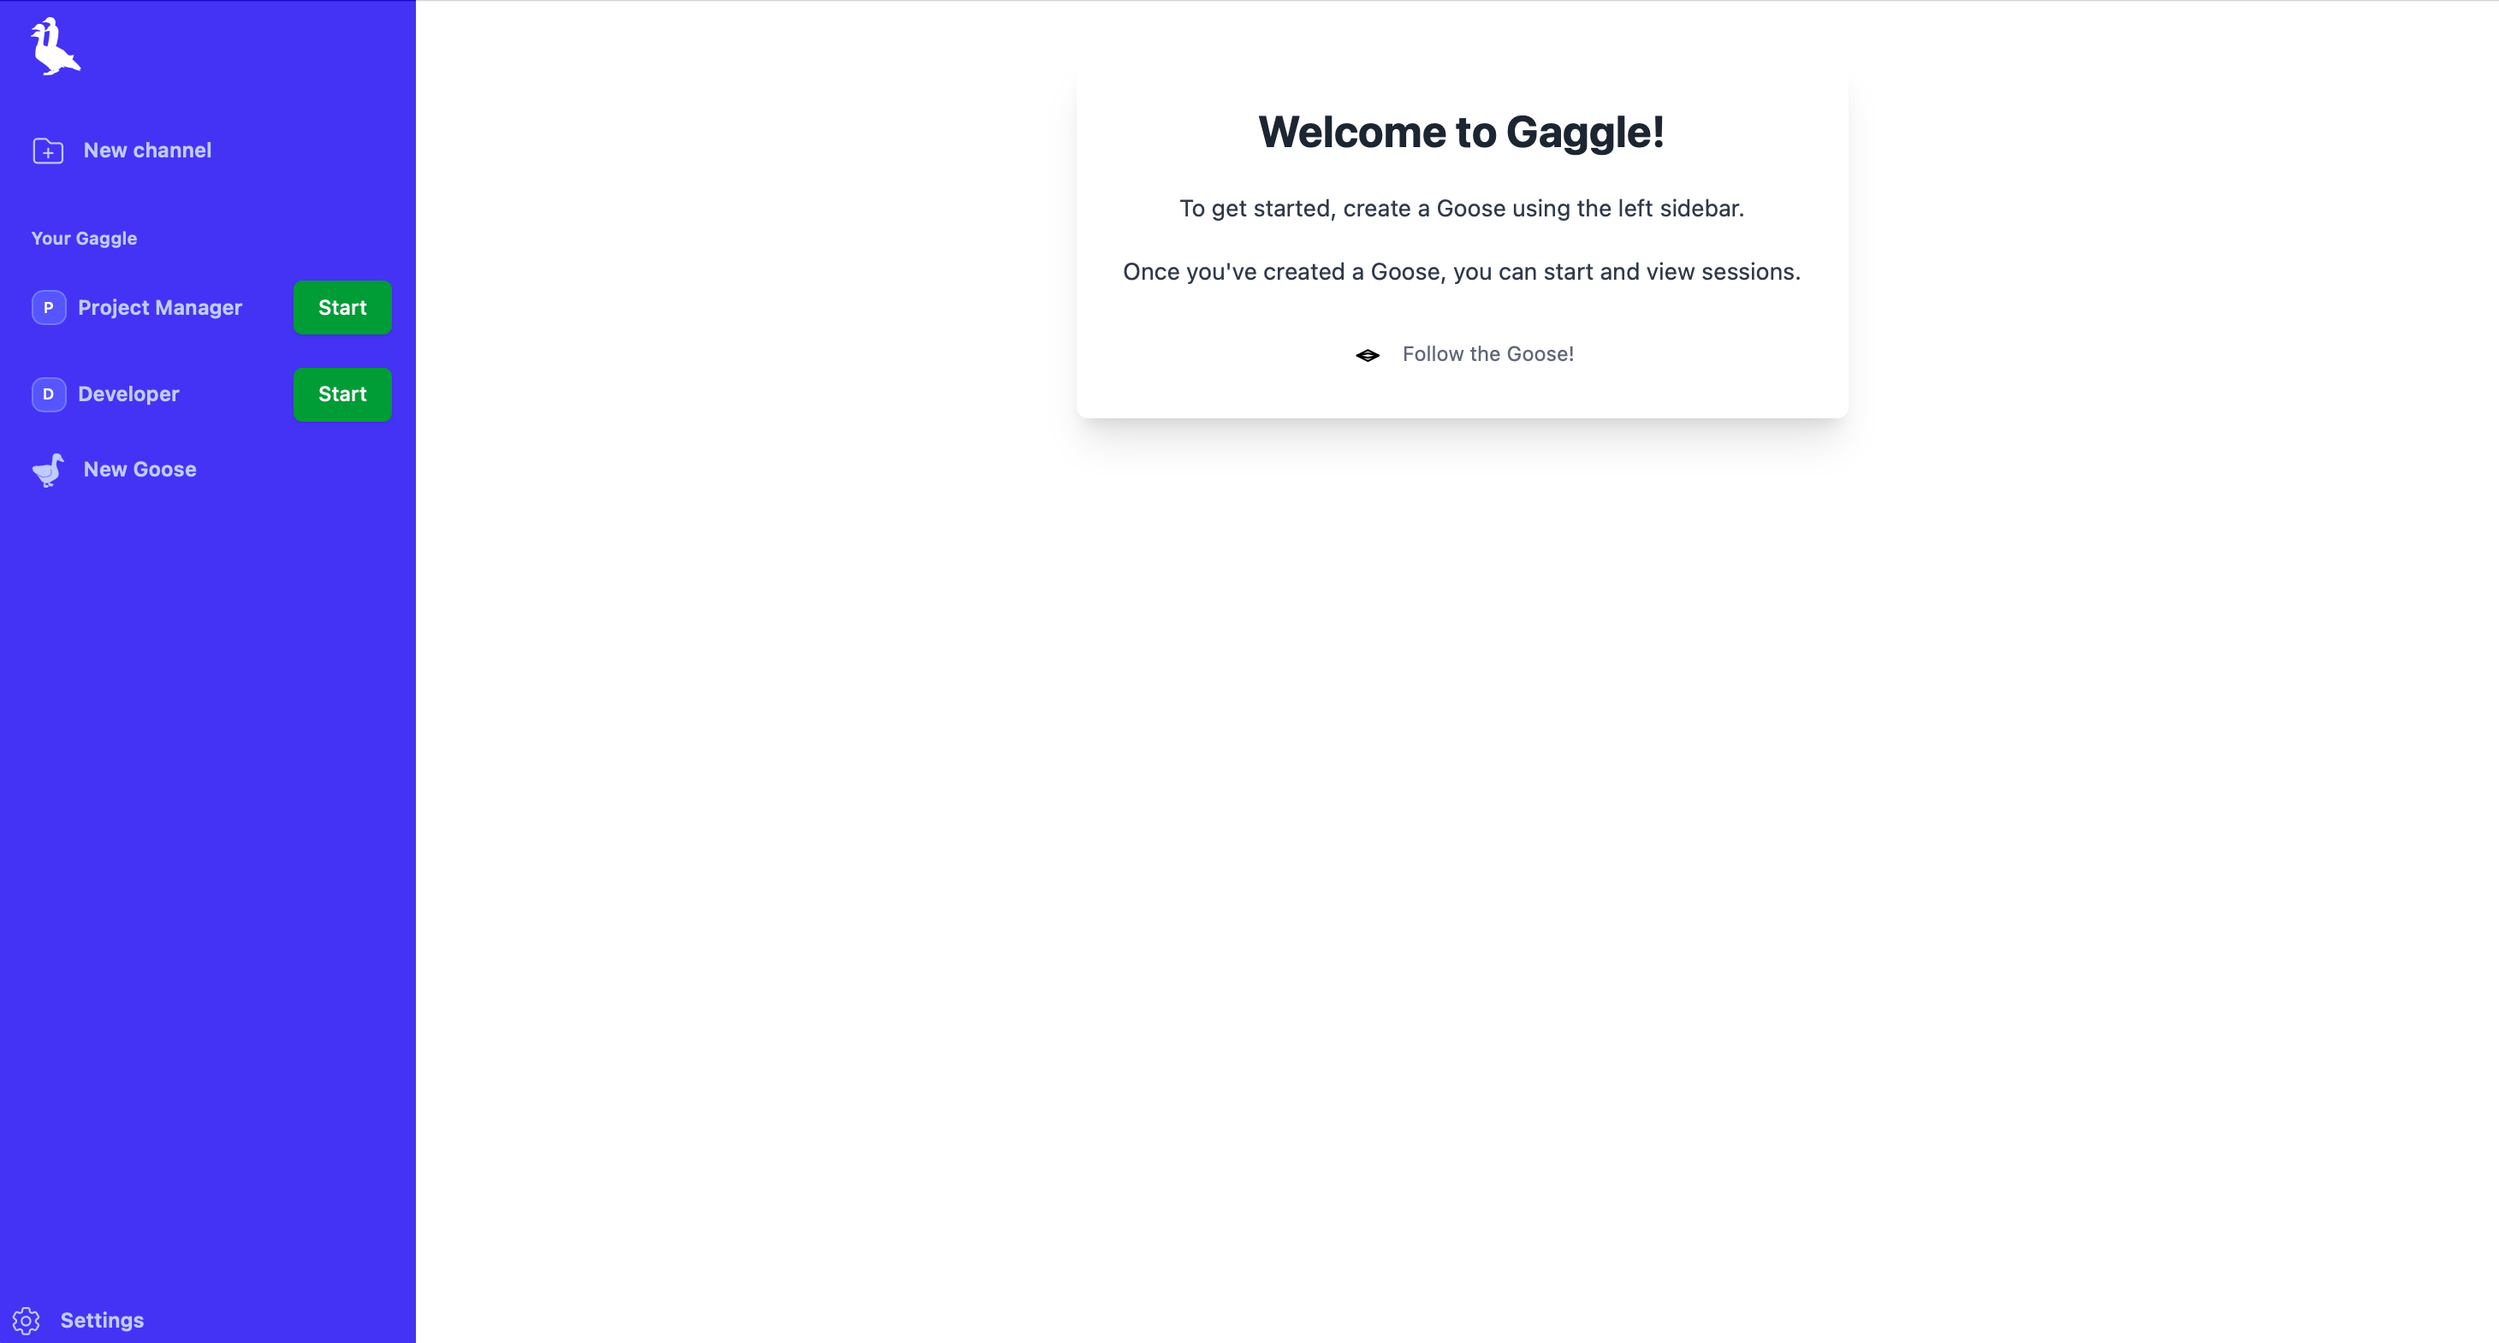
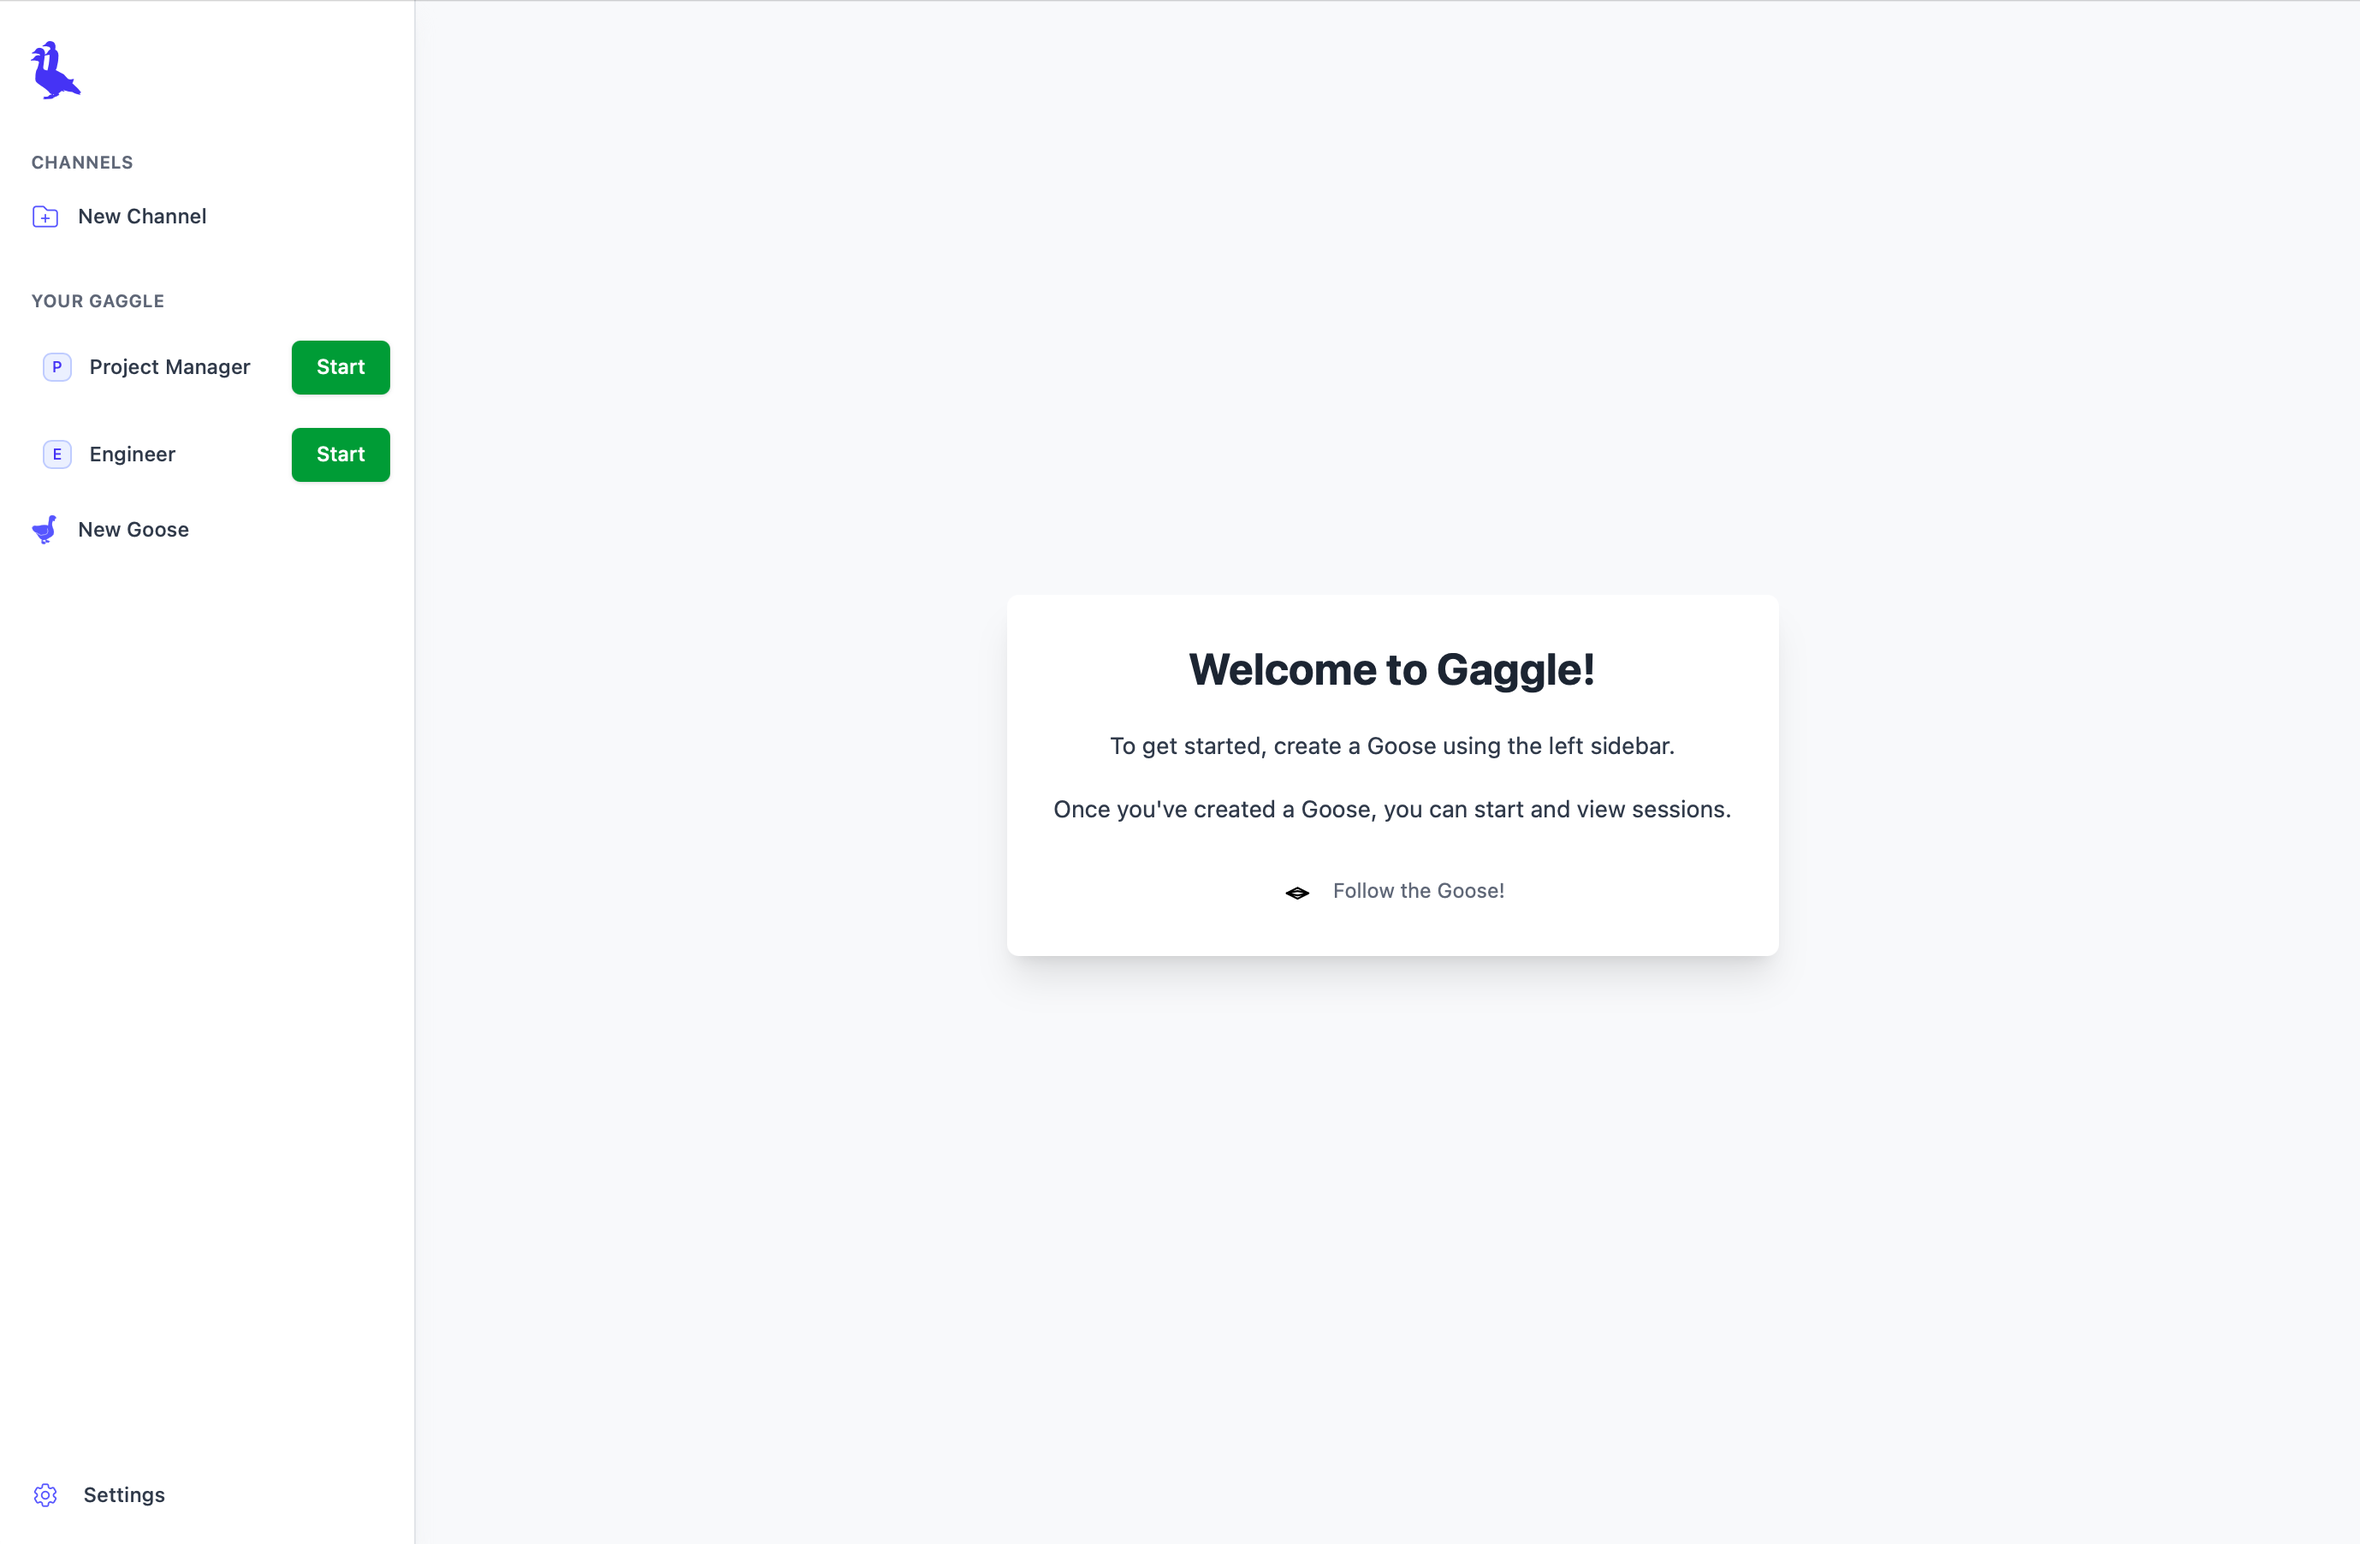
Update README with new screenshots and dark mode

diff --git a/README.md b/README.md
@@ -46,6 +46,9 @@ Gaggle is a Rails engine designed for development use that orchestrates multiple
 #### Channel Management
 ![channel management](docs/images/channel-management.png)
 
+#### Dark Mode
+![dark mode](docs/images/dark_mode.png)
+
 ## Installation in an Existing Rails App
 
 Install and configure [Goose CLI](https://block.github.io/goose/docs/getting-started/installation/)
